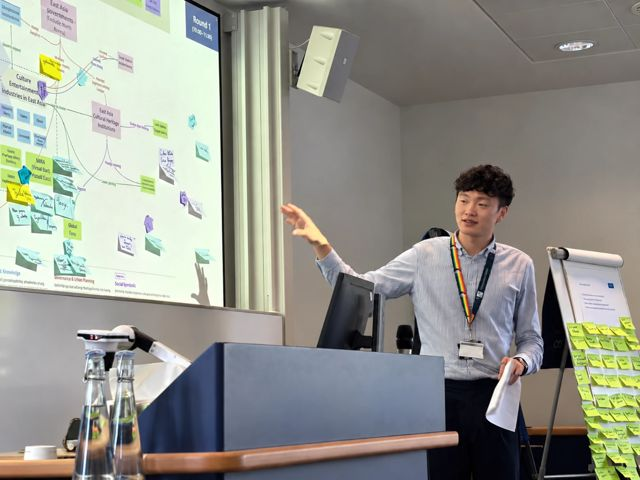
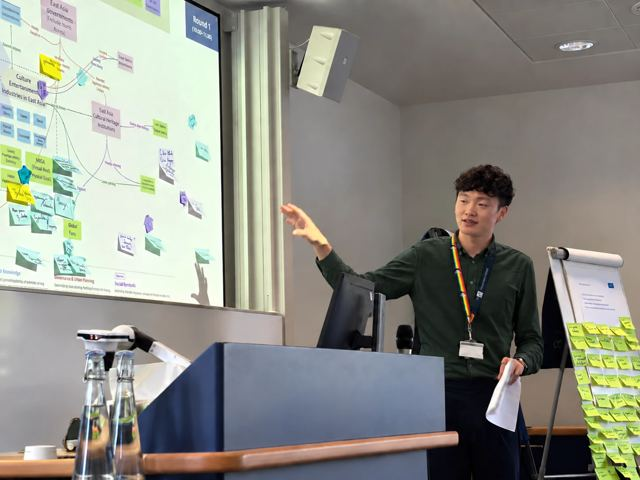
Mobility page: scope/role, scenarios simplified, chapter 05 copy, new card cover, hide two placeholder cards

Changed region(s): [[0.4688, 0.4688, 0.875, 0.8125], [0.9688, 0.9688, 1.0, 1.0], [0.0312, 0.3438, 0.0625, 0.375]]

diff --git a/src/pages/ProjectMobilityPage/ScenariosSection.tsx b/src/pages/ProjectMobilityPage/ScenariosSection.tsx
@@ -3,34 +3,12 @@ import ChapterHeader from "./ChapterHeader";
 import PhotoSlot from "./PhotoSlot";
 
 const scenarios = [
-  {
-    name: "Namkawaste",
-    subtitle: "Infrastructural Sovereignty",
-    archetype:
-      "A fiscally exhausted metropolis within a state that remains capable.",
-    world:
-      "Identity, payment, connectivity and mobility are outsourced one by one, and private Providers gain government-like reach without ever being formally granted it.",
-    mobility:
-      "Cheap and advanced, but how far you can go depends on which Providers recognise your subscription.",
-  },
-  {
-    name: "Vanilla skAI",
-    subtitle: "Cyborg Commons",
-    archetype: "A city with strong governance capacity and high legitimacy.",
-    world:
-      "Robotics and algorithms dissolve scarcity, and commons institutions called Compacts govern mobility, energy and data.",
-    mobility:
-      "Physical travel becomes a choice. Stratification now runs through access to the Weave, the everyday infrastructure that blends the virtual and the physical.",
-  },
-  {
-    name: "Watershed",
-    subtitle: "Hydraulic Power",
-    archetype:
-      "An exposed coastal and deltaic city, with warming approaching +3°C.",
-    world:
-      "The Houses that control fresh water, power and flood defences hold power.",
-    mobility: "A right granted by those who hold the water.",
-  },
+  { letter: "A", archetype:
+      "A fiscally exhausted metropolis within a state that remains capable.", name: "Platform-led infrastructure" },
+  { letter: "B", archetype:
+      "A city with strong governance capacity and high legitimacy.", name: "Commons-led infrastructure" },
+  { letter: "C", archetype:
+      "An exposed coastal and deltaic city, with warming approaching +3°C.", name: "Resource-constrained infrastructure" },
 ];
 
 export default function ScenariosSection(): ReactElement {
@@ -49,7 +27,8 @@ export default function ScenariosSection(): ReactElement {
           trade-offs, rather than passively receive insights. I first used
           structured discussion to clarify the current situation and existing
           assumptions, then used scenarios to show what might follow if those
-          assumptions broke down. The point is not the scenario narratives
+          assumptions broke down. I then compared the details across all three
+          scenarios. The point is not the scenario narratives
           themselves, but using the future as a stress test to see the risks in
           existing strategies and explore new possibilities.
         </p>
@@ -61,27 +40,16 @@ export default function ScenariosSection(): ReactElement {
           {scenarios.map((s, i) => (
             <div key={s.name} className="flex flex-col">
               <PhotoSlot
-                label={`Photo ${String(i + 7).padStart(2, "0")} · ${s.name}`}
+                label={`Photo ${String(i + 7).padStart(2, "0")} · Scenario ${s.letter}`}
                 aspect="4/3"
               />
-              <p className="text-[22px] font-bold mt-5">{s.name}</p>
-              <p className="text-[#DD663C] text-content font-semibold">
-                {s.subtitle}
+              <p className="text-[20px] font-bold mt-5">
+                Scenario {s.letter} — {s.name}
               </p>
-              <div className="mt-4 space-y-3 text-content font-light">
-                <p>
-                  <span className="font-bold">Archetype. </span>
-                  {s.archetype}
-                </p>
-                <p>
-                  <span className="font-bold">World. </span>
-                  {s.world}
-                </p>
-                <p>
-                  <span className="font-bold">Mobility. </span>
-                  {s.mobility}
-                </p>
-              </div>
+              <p className="mt-4 text-content font-light">
+                <span className="font-bold">Archetype. </span>
+                {s.archetype}
+              </p>
             </div>
           ))}
         </div>

diff --git a/src/pages/ProjectMobilityPage/ImplicationsSection.tsx b/src/pages/ProjectMobilityPage/ImplicationsSection.tsx
@@ -6,19 +6,19 @@ const shifts = [
     from: "Single-product optimisation",
     to: "Cross-scenario products and service iteration",
     detail:
-      "Examining how well vehicles, fleets and services fit under different demand and operating standards, and identifying the dependencies each system creates.",
+      "Examining how products and services might perform under different demand patterns and operating conditions.",
   },
   {
     from: "Standalone vehicle provider",
     to: "Cross-system partnership",
     detail:
-      "Exploring partnership roadmaps with cities, public transport, energy and digital service providers, prioritising data rights, the allocation of costs and benefits, and responsibility for services.",
+      "Developing partnership roadmaps with stakeholders beyond the vehicle or transport operator.",
   },
   {
     from: "Separate passenger and logistics services",
     to: "Hybrid mobility systems",
     detail:
-      "Examining the balance between moving people and moving goods, and how to integrate the information, dispatch and operations in land, sea and air service systems to ensure efficiency and security.",
+      "Exploring the balance between moving people and moving goods in land, sea and air service systems.",
   },
 ];
 
@@ -32,19 +32,18 @@ export default function ImplicationsSection(): ReactElement {
           The project's outputs include a 30-year literature and assumption
           analysis, three contrasting scenario narratives, and value
           relationship system maps that link today's as-is to future
-          stakeholder and service relationships. These outputs were presented
-          and debated in several of the client's internal senior strategy
-          meetings, and a partial external publication was used by relevant
-          government bodies as discussion material on public transport
-          governance.
+          stakeholder and service relationships. The work was used in senior
+          strategy discussions and informed wider conversations about future
+          mobility governance. Parts of the work also contributed to discussion
+          materials for relevant government bodies.
         </p>
         <p className="text-content font-light mt-4">
-          Within the centre, the approach became the process framework for the
-          other five workstreams.
+          Within the centre, this research process and its approaches also became
+          the fundamental framework for the other workstreams.
         </p>
 
         <p className="text-[20px] md:text-[24px] font-bold mt-9">
-          What changed in strategy
+          How the strategic conversation shifted
         </p>
         <div className="grid grid-cols-1 md:grid-cols-3 gap-6 mt-6">
           {shifts.map((s) => (

diff --git a/src/pages/ProjectMobilityPage/AtAGlanceSection.tsx b/src/pages/ProjectMobilityPage/AtAGlanceSection.tsx
@@ -13,25 +13,20 @@ export default function AtAGlanceSection(): ReactElement {
             &nbsp;
           </div>
           <p className="text-content font-light mt-4">
-            This foresight project was a collaboration with a global
-            automotive and mobility group and UK governmental departments. It
-            began with the mobility group leadership's reflection on the
-            organisation's strategy:{" "}
-            <span className="font-bold">
-              does our picture of future mobility come from how we imagine
-              society and cities might change, or is it mainly shaped by the
-              technology pathways we already know?
-            </span>{" "}
-            The group wanted to extend its technology-led trend analysis and
-            explore the strategic turning points that might emerge in a
-            post-AI era, once AI is deeply embedded in society and industry,
-            and as climate, energy and geopolitics continue to shift.
+            This foresight project was a collaboration with an automotive and
+            mobility group and public-sector stakeholders. The project
+            extended conventional technology-led analysis by examining how
+            changes in society, institutions and infrastructure could reshape
+            mobility demand and service models in the post-AI era, once AI is
+            deeply embedded in society and industry, and as climate, energy
+            and geopolitics continue to shift.
           </p>
           <p className="text-content font-light mt-4">
-            The project focused on large metropolitan areas as population,
-            economic activity and infrastructure are highly concentrated there.
-            This concentration makes the metropolis a key setting for
-            exploring how future mobility might be affected.
+            The project used large metropolitan areas as the primary unit of
+            analysis because they concentrate population, infrastructure,
+            economic activity and governance. This makes the
+            metropolis a key setting for exploring how future mobility might
+            be affected.
           </p>
         </div>
 
@@ -42,6 +37,7 @@ export default function AtAGlanceSection(): ReactElement {
               &nbsp;
             </div>
             <ul className="list-disc pl-5 mt-4 space-y-1 text-content font-light font-['Open_Sans']">
+              <li>Strategic Framing and Formulation</li>
               <li>Mixed-method Early Signal and Trend Analysis</li>
               <li>Cross-sector Stakeholder Engagement</li>
               <li>Forum and Workshop Planning and Facilitation</li>

diff --git a/src/pages/ProjectMobilityPage/WhatIDidSection.tsx b/src/pages/ProjectMobilityPage/WhatIDidSection.tsx
@@ -28,7 +28,7 @@ const steps = [
     bullets: [
       "Designed and facilitated the interactive discussion sessions for the 3-day forum.",
       "Contacted and invited representatives from energy, transport infrastructure, insurance, finance, aerospace, technology, government and urban planning.",
-      "Brought 60 stakeholders together for group discussion and debate, combining the perspectives of academia, policymakers, industry and practitioners.",
+      "Brought 60+ stakeholders together for group discussion and debate, combining the perspectives of academia, policymakers, industry and practitioners.",
     ],
   },
   {
@@ -37,8 +37,8 @@ const steps = [
     image: img_photo05,
     bullets: [
       "Introduced service design and design futures approaches, such as personas and user journey maps, to visualise future services.",
-      "Facilitated a 2-day workshop with the centre's research colleagues, and worked with 20 external stakeholders to develop three scenarios exploring the transition possibilities and boundary conditions that large cities might face by 2050.",
-      "Led 2 presentation sessions for 8 professors from the strategy and innovation department as an internal iteration.",
+      "Facilitated a 2-day workshop with the centre's research colleagues, and worked with 20+ external stakeholders to develop three scenarios exploring the transition possibilities and boundary conditions that large cities might face in the future.",
+      "Iterated the scenarios through internal critique sessions with senior academics and strategy researchers.",
     ],
   },
   {
@@ -70,13 +70,11 @@ export default function WhatIDidSection(): ReactElement {
             </span>
           </p>
           <p className="text-content font-light mt-3">
-            Many people in the room had never built a scenario, and some were
-            unsure what foresight was for. That moved the real problem away
-            from the method and towards access: how to get people
-            interested, try it, and then read and act on what came out.
-            Therefore, throughout the process I tried to use participatory and
-            interactive approaches to lower the barrier to discussion and draw
-            interest.
+            Some participants were new to scenario planning, which shifted the
+            challenge from applying the methods to making foresight
+            accessible, engaging and usable. Therefore, I used participatory
+            and interactive approaches to lower the barrier to discussion and
+            draw interest.
           </p>
         </div>
 

diff --git a/src/pages/ProjectMobilityPage/DetailSection.tsx b/src/pages/ProjectMobilityPage/DetailSection.tsx
@@ -12,6 +12,18 @@ export default function DetailSection(): ReactElement {
           "radial-gradient(ellipse at center, rgba(20,20,20,0.35) 0%, rgba(20,20,20,0.7) 100%)",
       }}
     >
+      {/* Confidentiality note: sits just above the glass band, over the photo */}
+      <div className="absolute bottom-full inset-x-0 pb-3">
+        <div className="container mx-auto">
+          <p
+            className="text-[13px] font-light text-white/90 leading-snug"
+            style={{ textShadow: "0 1px 6px rgba(0,0,0,0.8)" }}
+          >
+            Selected project details have been anonymised or reframed for
+            confidentiality.
+          </p>
+        </div>
+      </div>
       <footer className="footer container mx-auto font-light text-white">
         <nav className="text-white">
           <p className="tracking-[1px] text-content font-bold">DATE</p>
@@ -29,9 +41,9 @@ export default function DetailSection(): ReactElement {
           <p className="text-content mt-4 md:whitespace-nowrap">
             External Foresight and Service Design Consultant
           </p>
-          <p className="text-content mt-3 max-w-[380px]">
-            Working closely with the central strategy and innovation team and
-            the executive leadership.
+          <p className="text-content mt-3 max-w-[460px]">
+            Working closely with the client's central strategy and innovation
+            team and the executive leadership.
           </p>
         </nav>
         <nav className="text-white">
@@ -40,7 +52,7 @@ export default function DetailSection(): ReactElement {
             &nbsp;
           </div>
           <p className="text-content mt-4 max-w-[220px]">
-            University of Oxford and corporate partners
+            University of Oxford
           </p>
         </nav>
         <nav className="text-white">

diff --git a/src/pages/ProjectPage/PreviewSection.tsx b/src/pages/ProjectPage/PreviewSection.tsx
@@ -42,9 +42,12 @@ export default function PreviewSection(): ReactElement {
     },
   ];
 
+  // Hidden for now; remove the id from this list to show a card again
+  const hiddenIds = ["ev-maintenance", "robotics-analysis"];
+
   // Array of project data
   const projects = [
-    ...placeholderProjects,
+    ...placeholderProjects.filter((p) => !hiddenIds.includes(p.id)),
     {
       id: "mobility",
       imgURL: img_mobility_card,
@@ -53,9 +56,9 @@ export default function PreviewSection(): ReactElement {
         "How can mobility services keep creating value when demand and governing rules change in the post-AI era?",
       tags: ["Foresight & Scenario Planning"],
       highlights: [
-        "Developed three contrasting 2050 scenarios for large cities with a global automotive and mobility group.",
-        "Brought service design mapping into foresight to compare roles and value exchanges in 2026 and 2050.",
-        "Brought academic, policy, industry and practitioner perspectives together through a participatory futures forum.",
+        "Applied scenario planning and design thinking to reframe mobility strategy and services beyond the technology roadmap.",
+        "Translated long-term uncertainty into scenarios that could be used to stress-test current decisions and expose trade-offs.",
+        "Used service design to translate macro trends and signals into tangible changes in stakeholder roles, service relationships and value creation.",
       ],
     },
     {

diff --git a/src/pages/ProjectMobilityPage/ChallengeSection.tsx b/src/pages/ProjectMobilityPage/ChallengeSection.tsx
@@ -104,7 +104,7 @@ export default function ChallengeSection(): ReactElement {
         </div>
 
         <p className="tracking-[1px] text-[14px] font-bold mt-12">
-          KEY QUESTIONS DEVELOPED WITH LEADERSHIP
+          KEY QUESTIONS FOR LEADERSHIP
         </p>
         <div className="grid md:grid-cols-2 gap-x-10 gap-y-8 mt-6">
           {leadershipQuestions.map((item, i) => (
